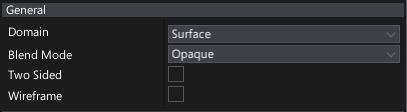
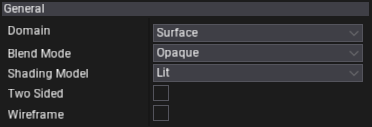
Update materials docs to match current features

diff --git a/manual/graphics/materials/material-properties/index.md b/manual/graphics/materials/material-properties/index.md
@@ -11,7 +11,8 @@ This page breaks down all the available material properties. These options are a
 | Property | Description |
 |--------|--------|
 | **Domain** | Specifies how material is going to be used. Certain materials used for postFx or 2D rendering requrie additional instructions for the rendering pipeline to be generated. Because of this, it's important to specify material domain that covers those cases. Possible options: <table><tbody><tr><th>Option</th><th>Description</th></tr><tr><td>**Surface**</td><td>Used for object's surface materials (e.g. meshes). This is a default value.</td></tr><tr><td>**Post Process**</td><td>Used for the [Post Process Materials](../../post-effects/post-fx-materials.md)</td></tr><tr><td>**Decal**</td><td>Used for the [Decal Materials](../../decals/index.md)</td></tr><tr><td>**GUI**</td><td>Used for custom shader rendering in GUI.</td></tr></tbody></table>|
-| **Blend Mode** | Specifies how blend material with the environment. Possible options: <table><tbody><tr><th>Option</th><th>Description</th></tr><tr><td>**Opaque**</td><td>The opaque material. Used during *GBuffer* pass rendering. This is a default value.</td></tr><tr><td>**Transparent**</td><td>The transparent material. Used during *Forward* pass rendering.</td></tr><tr><td>**Unlit**</td><td>The unlit material. Emissive channel is used as an output color. Can perform custom lighting operations or just glow. Won't be affected by the lighting pipeline.</td></tr></tbody></table>|
+| **Blend Mode** | Specifies how blend material with the environment. Possible options: <table><tbody><tr><th>Option</th><th>Description</th></tr><tr><td>**Opaque**</td><td>The opaque material. Used during *GBuffer* pass rendering. This is a default value.</td></tr><tr><td>**Transparent**</td><td>The transparent material. Used during *Forward* pass rendering.</td></tr></tbody></table>|
+| **Shading Model** | Specifies how material inputs and properties are combined to result the final surface color. Possible options: <table><tbody><tr><th>Option</th><th>Description</th></tr><tr><td>**Unlit**</td><td>The unlit material. Emissive channel is used as an output color. Can perform custom lighting operations or just glow. Won't be affected by the lighting pipeline.</td></tr><tr><td>**Lit**</td><td>The default lit material. The most common choice for the material surfaces.</td></tr><tr><td>**Subsurface**</td><td>The subsurface material. Intended for materials like vax or skin that need light scattering to transport simulation through the object.</td></tr></tbody></table>To learn more about shading models see the related documentation [here](../shading-models/index.md).|
 | **Two Sided** | If checked, geometry using this material will be rendered with triangle faces culling disabled. This is commonly used option for foliage materials to keep from having double up the number of rendered polygons. However, two sided materials may not work correcly with static lighting, since mesh still uses only a single lightmap UVs channel. As a result, two sided materials with static lightmap wll be shaded the same on both sides.|
 | **Wireframe** | If checked, geometry using this material will be rendered in wireframe mode without a solid triangles fill. |
 
